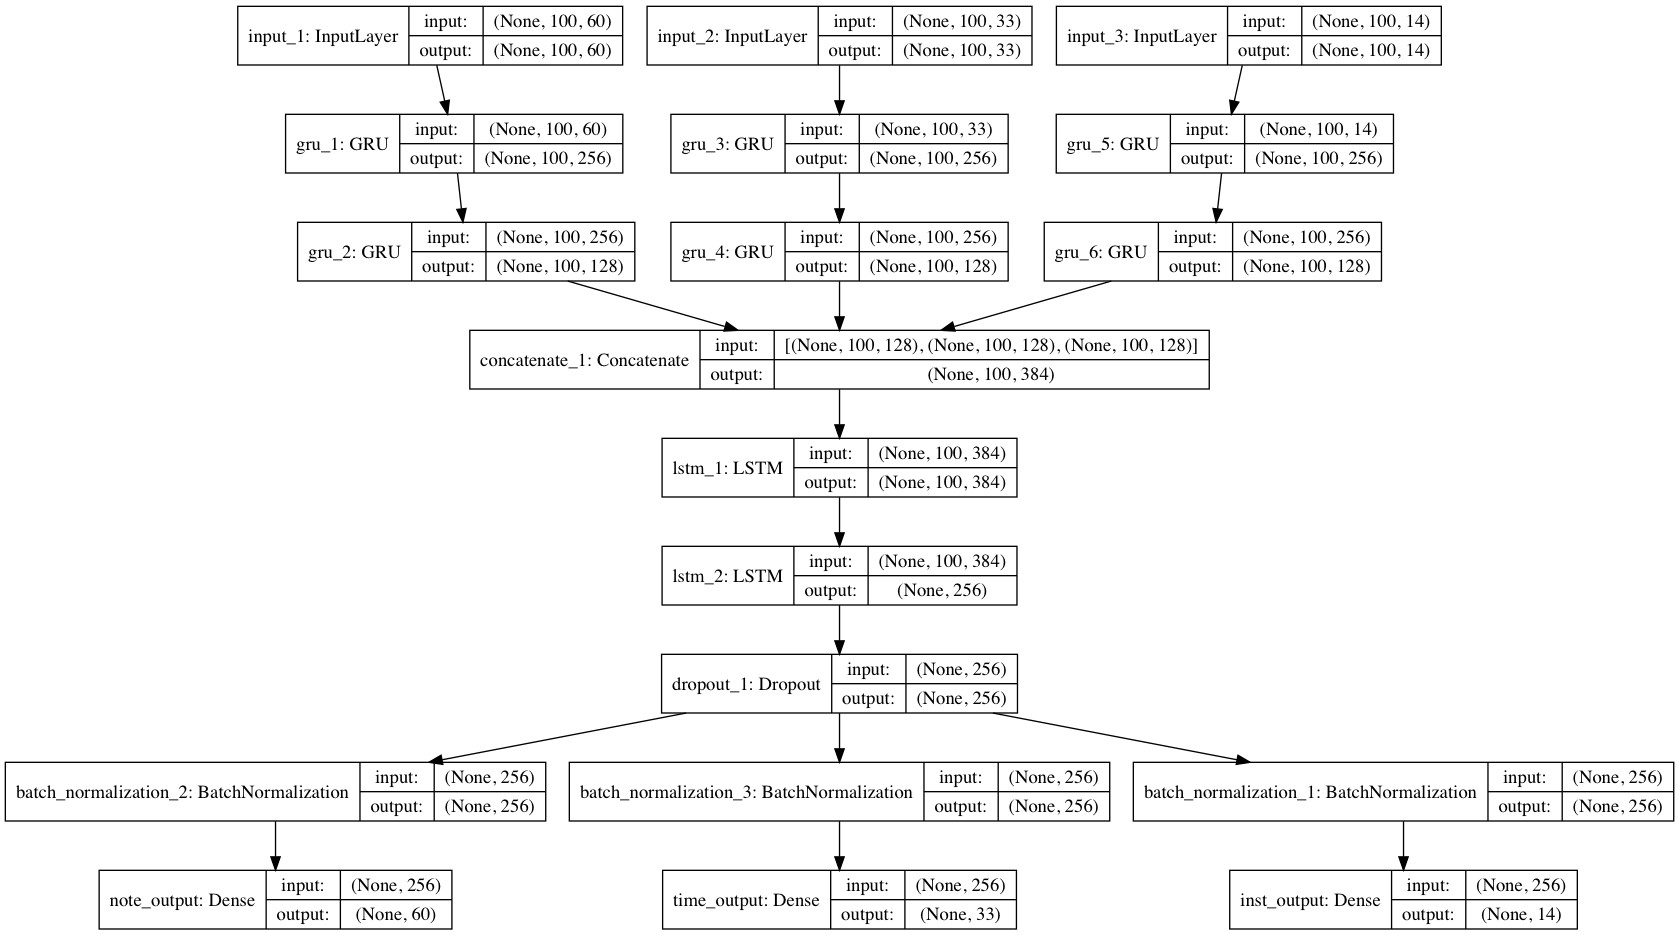
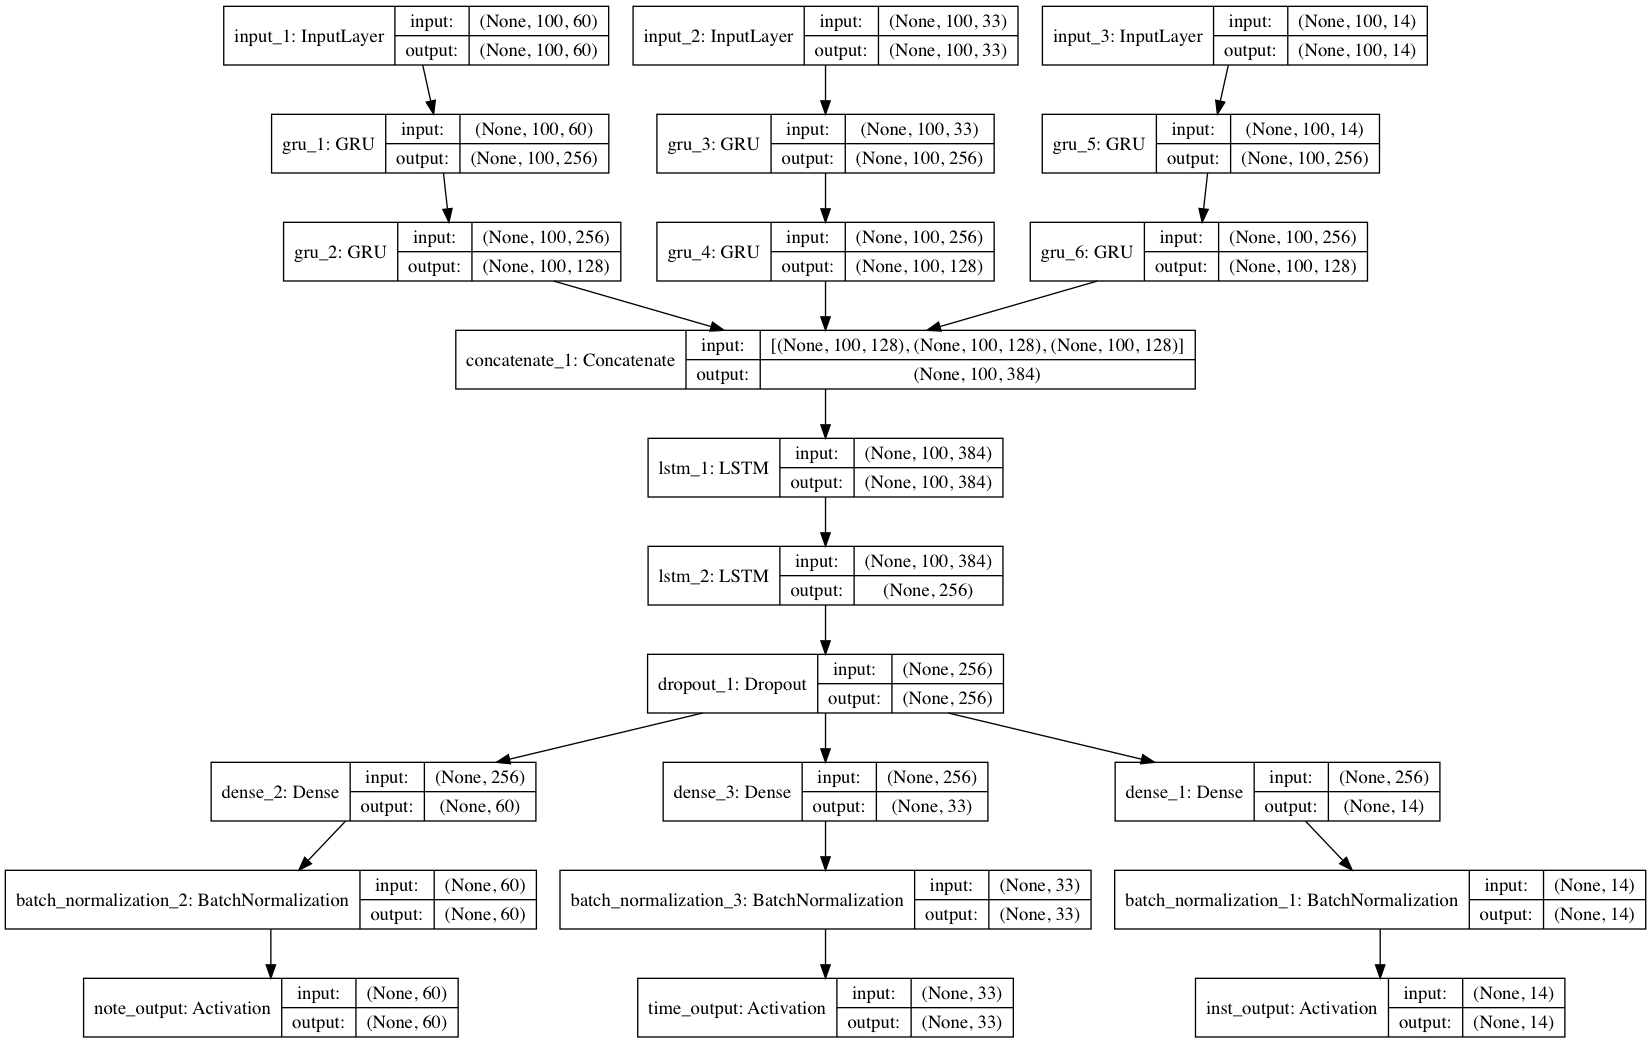
foo

Changed region(s): [[0.0, 0.0, 1.0, 1.0]]

diff --git a/multiple_instruments/train.py b/multiple_instruments/train.py
@@ -321,14 +321,18 @@ def main():
     codec = LSTM(256, return_sequences=False, dropout=drop_rate, activation='tanh', trainable=train_lstm)(codec)
     encoded = Dropout(drop_rate)(codec)
 
-    fc_inst = BatchNormalization(trainable=train_inst)(encoded)
-    pred_inst = Dense(maxinst, kernel_initializer='normal', activation='softmax', name='inst_output',  trainable=train_inst)(fc_inst) ## output PMF
+    fc_inst = Dense(maxinst, kernel_initializer='normal', trainable=train_inst)(encoded)
+    fc_inst = BatchNormalization(trainable=train_inst)(fc_inst)
+    pred_inst = Activation('softmax', name='inst_output', trainable=train_inst)(fc_inst)
 
-    fc_notes = BatchNormalization(trainable=train_note)(encoded)
-    pred_notes = Dense(vecLen, kernel_initializer='normal', activation='softmax', name='note_output', trainable=train_note)(fc_notes) ## output PMF
+    fc_notes = Dense(vecLen, kernel_initializer='normal', trainable=train_note)(encoded) ## output PMF
+    fc_notes = BatchNormalization(trainable=train_note)(fc_notes)
+    pred_notes = Activation('softmax', name='note_output', trainable=train_note)(fc_notes)
 
-    fc_delta = BatchNormalization(trainable=train_delta)(encoded)
-    pred_delta = Dense(maxdelta, kernel_initializer='normal', activation='softmax', name='time_output', trainable=train_delta)(fc_delta) ## output PMF
+    fc_delta = Dense(maxdelta, kernel_initializer='normal', trainable=train_delta)(encoded) ## output PMF
+    fc_delta = BatchNormalization(trainable=train_delta)(fc_delta)
+    pred_delta = Activation('softmax', name='time_output', trainable=train_delta)(fc_delta) ## output PMF
+
     aiComposer = Model([noteInput, deltaInput, instInput], [pred_notes, pred_delta, pred_inst])
     instClass  = Model([noteInput, deltaInput, instInput], [pred_inst])
     noteClass  = Model([noteInput, deltaInput, instInput], [pred_notes])

diff --git a/multiple_instruments/load.py b/multiple_instruments/load.py
@@ -60,14 +60,17 @@ with tf.device('/gpu:3'):
     codec = LSTM(256, return_sequences=False, dropout=drop_rate, activation='tanh')(codec)
     encoded = Dropout(drop_rate)(codec)
 
-    fc_inst = BatchNormalization()(encoded)
-    pred_inst = Dense(maxinst, kernel_initializer='normal', activation='softmax', name='inst_output')(fc_inst) ## output PMF
+    fc_inst = Dense(maxinst, kernel_initializer='normal')(encoded)
+    fc_inst = BatchNormalization()(fc_inst)
+    pred_inst = Activation('softmax', name='inst_output')(fc_inst)
 
-    fc_notes = BatchNormalization()(encoded)
-    pred_notes = Dense(vecLen, kernel_initializer='normal', activation='softmax', name='note_output')(fc_notes) ## output PMF
+    fc_notes = Dense(vecLen, kernel_initializer='normal')(encoded) ## output PMF
+    fc_notes = BatchNormalization()(fc_notes)
+    pred_notes = Activation('softmax', name='note_output')(fc_notes)
 
-    fc_delta = BatchNormalization()(encoded)
-    pred_delta = Dense(maxdelta, kernel_initializer='normal', activation='softmax', name='time_output')(fc_delta) ## output PMF
+    fc_delta = Dense(maxdelta, kernel_initializer='normal')(encoded) ## output PMF
+    fc_delta = BatchNormalization()(fc_delta)
+    pred_delta = Activation('softmax', name='time_output')(fc_delta) ## output PMF
 
 aiComposer = Model([noteInput, deltaInput, instInput], [pred_notes, pred_delta, pred_inst])
 if ( os.path.isfile('./top_weight.h5')):  ## fine-tuning

diff --git a/multiple_instruments/summary.py b/multiple_instruments/summary.py
@@ -60,14 +60,17 @@ with tf.device('/gpu:3'):
     codec = LSTM(256, return_sequences=False, dropout=drop_rate, activation='tanh')(codec)
     encoded = Dropout(drop_rate)(codec)
 
-    fc_inst = BatchNormalization()(encoded)
-    pred_inst = Dense(maxinst, kernel_initializer='normal', activation='softmax', name='inst_output')(fc_inst) ## output PMF
+    fc_inst = Dense(maxinst, kernel_initializer='normal')(encoded)
+    fc_inst = BatchNormalization()(fc_inst)
+    pred_inst = Activation('softmax', name='inst_output')(fc_inst)
 
-    fc_notes = BatchNormalization()(encoded)
-    pred_notes = Dense(vecLen, kernel_initializer='normal', activation='softmax', name='note_output')(fc_notes) ## output PMF
+    fc_notes = Dense(vecLen, kernel_initializer='normal')(encoded) ## output PMF
+    fc_notes = BatchNormalization()(fc_notes)
+    pred_notes = Activation('softmax', name='note_output')(fc_notes)
 
-    fc_delta = BatchNormalization()(encoded)
-    pred_delta = Dense(maxdelta, kernel_initializer='normal', activation='softmax', name='time_output')(fc_delta) ## output PMF
+    fc_delta = Dense(maxdelta, kernel_initializer='normal')(encoded) ## output PMF
+    fc_delta = BatchNormalization()(fc_delta)
+    pred_delta = Activation('softmax', name='time_output')(fc_delta) ## output PMF
 
 aiComposer = Model([noteInput, deltaInput, instInput], [pred_notes, pred_delta, pred_inst])
 aiComposer.summary()
